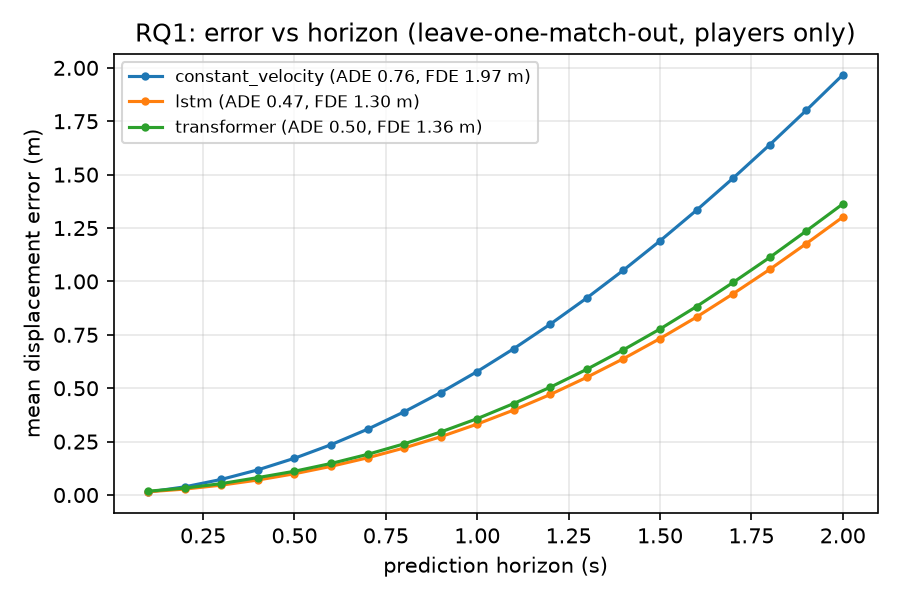
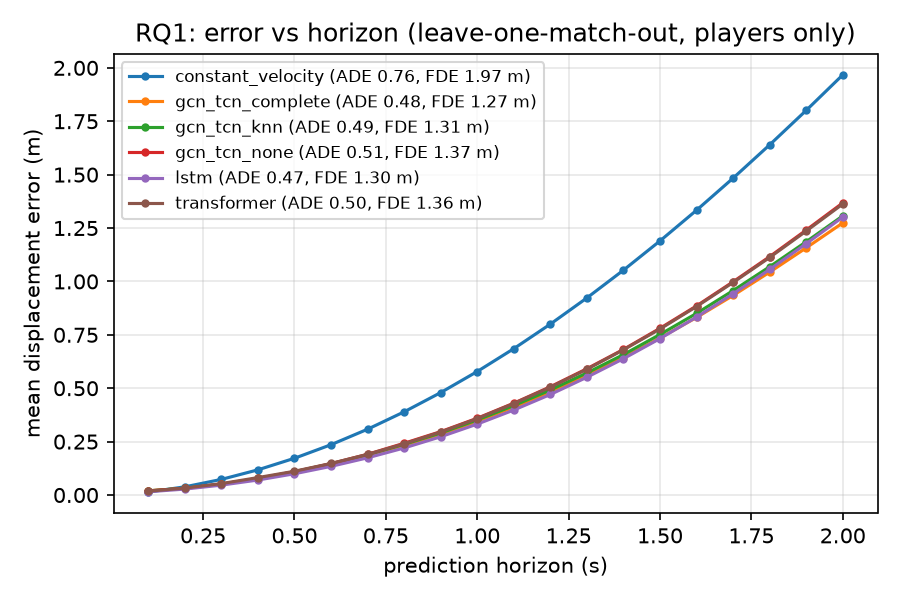
Add GCN-TCN with none / kNN / complete player graphs
- graphs.py: per-time-step adjacency over the 23 nodes (none, complete, kNN)
- models/gcn_tcn.py: 4 blocks of dilated temporal conv + PyG DenseGCNConv,
  ball as an input node, team one-hot features. Own features use a separate
  root weight; with GCN self-loops the complete graph underfit (0.64/1.60 m)
- train.py feeds the ball node to models with uses_ball = True
- train_baseline.py: --model gcn_tcn --graph none|knn|complete
- Results (ADE/FDE m, mean of held-out matches): none 0.51/1.37,
  kNN 0.49/1.31, complete 0.48/1.27; edges beat no edges in every match

diff --git a/scripts/train_baseline.py b/scripts/train_baseline.py
@@ -1,10 +1,12 @@
-"""Per-player learned baselines (LSTM / Transformer), leave-one-match-out, vs constant velocity.
+"""Learned RQ1 models, leave-one-match-out, vs constant velocity.
 
     python scripts/train_baseline.py --model lstm
     python scripts/train_baseline.py --model transformer
+    python scripts/train_baseline.py --model gcn_tcn --graph complete   # or knn / none
 
-Writes ADE/FDE per match to runs/<model>_lomo.csv and the per-step error curve
-to runs/<model>_horizon.npz (plot with scripts/plot_horizon.py).
+Writes ADE/FDE per match to runs/<name>_lomo.csv and the per-step error curve
+to runs/<name>_horizon.npz (plot with scripts/plot_horizon.py), where <name> is the
+model, plus the graph for gcn_tcn (e.g. gcn_tcn_knn).
 """
 import argparse
 import csv
@@ -15,18 +17,21 @@ import numpy as np
 
 from stfootball.baselines import constant_velocity
 from stfootball.config import DEFAULT
+from stfootball.graphs import GRAPHS
 from stfootball.io.metrica import load_all
 from stfootball.metrics import ade, fde, horizon_error
+from stfootball.models.gcn_tcn import GCNTCN
 from stfootball.models.lstm import PlayerLSTM
 from stfootball.models.transformer import PlayerTransformer
 from stfootball.preprocess import preprocess
 from stfootball.train import TrainConfig, fit, predict
 from stfootball.windows import WindowSet, make_windows
 
-MODELS = {"lstm": PlayerLSTM, "transformer": PlayerTransformer}
+MODELS = {"lstm": PlayerLSTM, "transformer": PlayerTransformer, "gcn_tcn": GCNTCN}
 
 ap = argparse.ArgumentParser()
 ap.add_argument("--model", choices=MODELS, default="lstm")
+ap.add_argument("--graph", choices=GRAPHS, default="complete", help="edges for gcn_tcn")
 ap.add_argument("--data", default="data/metrica/data")
 ap.add_argument("--cache", default="data/windows")
 ap.add_argument("--epochs", type=int, default=TrainConfig.epochs)
@@ -37,6 +42,12 @@ ap.add_argument("--smooth-s", type=float, default=DEFAULT.smooth_window_s,
 ap.add_argument("--out-dir", default="runs")
 args = ap.parse_args()
 cfg = replace(DEFAULT, smooth_window_s=args.smooth_s)
+name = f"{args.model}_{args.graph}" if args.model == "gcn_tcn" else args.model
+
+
+def build(t_out: int):
+    kwargs = {"graph": args.graph} if args.model == "gcn_tcn" else {}
+    return MODELS[args.model](t_out, **kwargs)
 
 
 def load_windows() -> list[WindowSet]:
@@ -59,23 +70,23 @@ t_out = int(cfg.output_s * cfg.target_fps)
 rows, curves = [], {}
 for test in sets:
     print(f"held out {test.match_id}", flush=True)
-    model = fit(MODELS[args.model](t_out), [w for w in sets if w is not test], tc, cfg)
-    for name, pred in (("constant_velocity", constant_velocity(test.X, t_out, cfg.target_fps)),
-                       (args.model, predict(model, test.X, device=args.device))):
-        rows.append((test.match_id, name, len(test.X), ade(pred, test.Y), fde(pred, test.Y)))
-        curves[f"{name}/{test.match_id}"] = horizon_error(pred, test.Y)
+    model = fit(build(t_out), [w for w in sets if w is not test], tc, cfg)
+    for label, pred in (("constant_velocity", constant_velocity(test.X, t_out, cfg.target_fps)),
+                        (name, predict(model, test.X, device=args.device))):
+        rows.append((test.match_id, label, len(test.X), ade(pred, test.Y), fde(pred, test.Y)))
+        curves[f"{label}/{test.match_id}"] = horizon_error(pred, test.Y)
 
 print(f"\n{'match':12s} {'model':18s} {'windows':>8s} {'ADE(m)':>7s} {'FDE(m)':>7s}")
 for r in rows:
     print(f"{r[0]:12s} {r[1]:18s} {r[2]:8d} {r[3]:7.2f} {r[4]:7.2f}")
-for name in ("constant_velocity", args.model):
-    sel = [r for r in rows if r[1] == name]
-    print(f"{'mean':12s} {name:18s} {sum(r[2] for r in sel):8d} "
+for m in ("constant_velocity", name):
+    sel = [r for r in rows if r[1] == m]
+    print(f"{'mean':12s} {m:18s} {sum(r[2] for r in sel):8d} "
           f"{np.mean([r[3] for r in sel]):7.2f} {np.mean([r[4] for r in sel]):7.2f}")
 
 out = Path(args.out_dir)
 out.mkdir(parents=True, exist_ok=True)
-with open(out / f"{args.model}_lomo.csv", "w", newline="") as f:
+with open(out / f"{name}_lomo.csv", "w", newline="") as f:
     csv.writer(f).writerows([("match", "model", "windows", "ade", "fde"), *rows])
-np.savez(out / f"{args.model}_horizon.npz", **curves)
-print(f"saved {out}/{args.model}_lomo.csv, {out}/{args.model}_horizon.npz")
+np.savez(out / f"{name}_horizon.npz", **curves)
+print(f"saved {out}/{name}_lomo.csv, {out}/{name}_horizon.npz")

diff --git a/src/stfootball/models/gcn_tcn.py b/src/stfootball/models/gcn_tcn.py
@@ -1,0 +1,60 @@
+"""GCN + TCN spatio-temporal graph model for RQ1.
+
+Each block mixes information over time (dilated temporal convolution, per node)
+and then over the player graph (dense GCN from PyTorch Geometric, per time step).
+A node's own features go through a separate root weight instead of a GCN self-loop:
+with self-loops a complete graph averages each player with 22 others at weight 1/23
+and the model underfits (train ADE 0.60 vs 0.47 without edges). With graph="none"
+only the root path is left, which gives the same network without interactions,
+i.e. the ablation for the graph.
+"""
+import torch
+from torch import nn
+from torch_geometric.nn import DenseGCNConv
+
+from ..graphs import adjacency
+from .lstm import POS_SCALE, node_features
+
+N_NODES = 23
+TEAM = torch.tensor([0] * 11 + [1] * 11 + [2])  # home, away, ball (windows.py node order)
+
+
+class STBlock(nn.Module):
+    def __init__(self, ch: int, dilation: int, dropout: float):
+        super().__init__()
+        self.temporal = nn.Conv1d(ch, ch, 3, padding=dilation, dilation=dilation)
+        self.neighbours = DenseGCNConv(ch, ch)
+        self.root = nn.Linear(ch, ch, bias=False)
+        self.norm = nn.LayerNorm(ch)
+        self.drop = nn.Dropout(dropout)
+
+    def forward(self, h: torch.Tensor, adj: torch.Tensor) -> torch.Tensor:
+        B, T, N, C = h.shape
+        t = self.temporal(h.permute(0, 2, 3, 1).reshape(B * N, C, T))
+        t = torch.relu(t).view(B, N, C, T).permute(0, 3, 1, 2)
+        s = self.neighbours(t.reshape(B * T, N, C), adj.reshape(B * T, N, N), add_loop=False).view(B, T, N, C)
+        s = s + self.root(t)
+        return self.norm(h + self.drop(torch.relu(s)))
+
+
+class GCNTCN(nn.Module):
+    uses_ball = True  # the ball node is part of the graph; outputs cover the 22 players
+
+    def __init__(self, t_out: int, graph: str = "complete", hidden: int = 64,
+                 dilations=(1, 2, 4, 8), k: int = 4, dropout: float = 0.1):
+        super().__init__()
+        self.t_out, self.graph, self.k = t_out, graph, k
+        self.embed = nn.Linear(6 + 3, hidden)
+        self.blocks = nn.ModuleList(STBlock(hidden, d, dropout) for d in dilations)
+        self.head = nn.Sequential(nn.Linear(hidden, hidden), nn.ReLU(), nn.Linear(hidden, t_out * 2))
+
+    def forward(self, X: torch.Tensor) -> torch.Tensor:
+        """(B, T_in, 23, 4) -> (B, T_out, 22, 2) future player positions in metres."""
+        B, T, N, _ = X.shape
+        team = nn.functional.one_hot(TEAM.to(X.device), 3).float().expand(B, T, N, 3)
+        h = self.embed(torch.cat([node_features(X), team], -1))
+        adj = adjacency(X[..., :2], self.graph, self.k)
+        for block in self.blocks:
+            h = block(h, adj)
+        offset = self.head(h[:, -1, :22]).view(B, 22, self.t_out, 2).permute(0, 2, 1, 3) * POS_SCALE
+        return X[:, -1:, :22, :2] + offset

diff --git a/src/stfootball/train.py b/src/stfootball/train.py
@@ -1,4 +1,5 @@
-"""Training loop shared by the learned RQ1 models (players only, ball is input-free here).
+"""Training loop shared by the learned RQ1 models. Loss and outputs cover the 22 players;
+models with `uses_ball = True` (graph models) also get the ball node as input.
 
 Validation windows are the last `val_frac` of each training match, separated from the
 training part by a gap so overlapping windows never sit on both sides of the split.
@@ -16,6 +17,10 @@ from .config import DEFAULT, Config
 from .windows import WindowSet
 
 PLAYERS = slice(0, 22)
+
+
+def input_nodes(model: torch.nn.Module) -> slice:
+    return slice(None) if getattr(model, "uses_ball", False) else PLAYERS
 
 
 @dataclass(frozen=True)
@@ -68,7 +73,8 @@ def _flip(X: torch.Tensor, Y: torch.Tensor):
 def predict(model: torch.nn.Module, X: np.ndarray, batch_size: int = 256, device: str = "auto") -> np.ndarray:
     dev = pick_device(device)
     model.to(dev).eval()
-    out = [model(torch.as_tensor(X[i:i + batch_size, :, PLAYERS], dtype=torch.float32, device=dev)).cpu().numpy()
+    nodes = input_nodes(model)
+    out = [model(torch.as_tensor(X[i:i + batch_size, :, nodes], dtype=torch.float32, device=dev)).cpu().numpy()
            for i in range(0, len(X), batch_size)]
     return np.concatenate(out)
 
@@ -79,7 +85,7 @@ def fit(model: torch.nn.Module, train_sets: list[WindowSet], tc: TrainConfig = T
     rng = np.random.default_rng(tc.seed)
     dev = pick_device(tc.device)
     (Xtr, Ytr), (Xva, Yva) = split_train_val(train_sets, tc.val_frac, cfg)
-    Xtr = torch.as_tensor(Xtr[:, :, PLAYERS], dtype=torch.float32)
+    Xtr = torch.as_tensor(Xtr[:, :, input_nodes(model)], dtype=torch.float32)
     Ytr = torch.as_tensor(Ytr[:, :, PLAYERS], dtype=torch.float32)
     model.to(dev)
     opt = torch.optim.AdamW(model.parameters(), lr=tc.lr, weight_decay=tc.weight_decay)

diff --git a/tests/test_models.py b/tests/test_models.py
@@ -63,3 +63,27 @@ def test_horizon_error_matches_ade_and_fde():
     curve = horizon_error(pred, w.Y)
     assert curve.shape == (T_OUT,)
     assert np.isclose(curve.mean(), ade(pred, w.Y)) and np.isclose(curve[-1], fde(pred, w.Y))
+
+
+def test_adjacency_kinds():
+    from stfootball.graphs import adjacency
+    pos = torch.randn(2, 5, 23, 2) * 20
+    assert adjacency(pos, "none").sum() == 0
+    full = adjacency(pos, "complete")
+    assert full.shape == (2, 5, 23, 23) and full[0, 0].sum() == 23 * 22
+    knn = adjacency(pos, "knn", k=4)
+    assert torch.equal(knn, knn.transpose(-1, -2))
+    assert (knn.diagonal(dim1=-2, dim2=-1) == 0).all() and (knn.sum(-1) >= 4).all()
+
+
+def test_gcn_tcn_shape_and_interaction_ablation():
+    from stfootball.models.gcn_tcn import GCNTCN
+    X = torch.as_tensor(linear_windows(2).X, dtype=torch.float32)  # all 23 nodes
+    X2 = X.clone(); X2[:, :, 15, :2] += 5.0                         # move one away player
+    for graph, shared in (("none", False), ("complete", True)):
+        torch.manual_seed(0)
+        model = GCNTCN(T_OUT, graph=graph, hidden=16, dilations=(1, 2)).eval()
+        out, out2 = model(X), model(X2)
+        assert out.shape == (2, T_OUT, 22, 2)
+        changed = not torch.allclose(out[:, :, 0], out2[:, :, 0])  # did home player 0 notice?
+        assert changed == shared, graph

diff --git a/src/stfootball/graphs.py b/src/stfootball/graphs.py
@@ -1,0 +1,30 @@
+"""Player graphs for the ST-GNN (RQ1).
+
+Adjacency is built per time step from node positions, so edges follow the play
+inside a window. Nodes are the 23 of `windows.py` (11 home, 11 away, ball).
+Self-loops are left out; the GCN layer adds them.
+"""
+import torch
+
+GRAPHS = ("none", "complete", "knn")
+
+
+def adjacency(pos: torch.Tensor, kind: str, k: int = 4) -> torch.Tensor:
+    """(..., N, 2) positions -> (..., N, N) 0/1 adjacency without self-loops.
+
+    none      no edges: every node is processed alone (same model, interactions ablated)
+    complete  every pair of nodes
+    knn       each node to its k nearest nodes, symmetrised
+    """
+    N = pos.shape[-2]
+    eye = torch.eye(N, dtype=torch.bool, device=pos.device)
+    if kind == "none":
+        return torch.zeros(*pos.shape[:-1], N, device=pos.device)
+    if kind == "complete":
+        return (~eye).float().expand(*pos.shape[:-1], N).clone()
+    if kind == "knn":
+        d = torch.cdist(pos, pos).masked_fill(eye, float("inf"))
+        idx = d.topk(k, dim=-1, largest=False).indices
+        A = torch.zeros_like(d).scatter_(-1, idx, 1.0)
+        return torch.maximum(A, A.transpose(-1, -2))
+    raise ValueError(f"unknown graph {kind!r}, expected one of {GRAPHS}")

diff --git a/README.md b/README.md
@@ -32,23 +32,34 @@ python scripts/build_db.py                # -> data/football.db (~170k frames, 3
 python scripts/run_baselines.py           # RQ1 baselines
 python scripts/train_baseline.py --model lstm         # per-player LSTM, leave-one-match-out (~25 min on Apple MPS)
 python scripts/train_baseline.py --model transformer  # per-player Transformer (~45 min)
+python scripts/train_baseline.py --model gcn_tcn --graph complete  # GCN-TCN; also knn / none (~25 min each)
 python scripts/plot_horizon.py                        # error vs horizon figure from runs/
 pytest                                    # synthetic-data tests, no download needed
 ```
 
 ## Results so far (RQ1, 2 s horizon, players only, leave-one-match-out)
 
-| Held-out match | Windows | Stationary | Constant velocity | Per-player LSTM | Per-player Transformer |
-|---|---|---|---|---|---|
-| metrica_1 | 2,733 | 2.26 / 4.22 | 0.72 / 1.86 | 0.43 / 1.19 | 0.47 / 1.28 |
-| metrica_2 | 2,483 | 2.29 / 4.28 | 0.75 / 1.93 | 0.45 / 1.24 | 0.48 / 1.30 |
-| metrica_3 | 3,059 | 2.33 / 4.36 | 0.82 / 2.11 | 0.55 / 1.48 | 0.57 / 1.51 |
-| **mean** | 8,275 | 2.29 / 4.29 | 0.76 / 1.97 | **0.47 / 1.30** | 0.50 / 1.36 |
+ADE / FDE in metres per held-out match.
 
-ADE / FDE in metres. Both learned baselines see each player alone (`python scripts/train_baseline.py --model lstm|transformer`,
-up to 80 epochs with early stopping, one seed), so they are the reference the graph models must beat.
-Swapping recurrence for attention does not help on 4 s histories; the gain has to come from player interactions.
-Smoothing is off: a centred 0.5 s moving average leaked future frames into the inputs and made the LSTM look better than it is (0.36 / 1.07 m).
+| Model | Interactions | metrica_1 | metrica_2 | metrica_3 | **mean** |
+|---|---|---|---|---|---|
+| Stationary | - | 2.26 / 4.22 | 2.29 / 4.28 | 2.33 / 4.36 | 2.29 / 4.29 |
+| Constant velocity | - | 0.72 / 1.86 | 0.75 / 1.93 | 0.82 / 2.11 | 0.76 / 1.97 |
+| Per-player LSTM | no | 0.43 / 1.19 | 0.45 / 1.24 | 0.55 / 1.48 | **0.47** / 1.30 |
+| Per-player Transformer | no | 0.47 / 1.28 | 0.48 / 1.30 | 0.57 / 1.51 | 0.50 / 1.36 |
+| GCN-TCN, no edges | no | 0.46 / 1.26 | 0.48 / 1.32 | 0.58 / 1.52 | 0.51 / 1.37 |
+| GCN-TCN, kNN (k = 4) | yes | 0.44 / 1.21 | 0.46 / 1.24 | 0.56 / 1.47 | 0.49 / 1.31 |
+| GCN-TCN, complete | yes | 0.43 / 1.17 | 0.45 / 1.22 | 0.55 / 1.44 | 0.48 / **1.27** |
+
+Windows per match: 2,733 / 2,483 / 3,059. Learned models: `python scripts/train_baseline.py --model lstm|transformer|gcn_tcn [--graph none|knn|complete]`,
+up to 80 epochs with early stopping, one seed.
+
+- **Interactions help.** The GCN-TCN with edges beats the same network without edges in every held-out match
+  (complete: ADE -0.03 m, FDE -0.10 m). This is the RQ1 comparison.
+- Against the per-player LSTM, the complete-graph GCN-TCN ties on ADE and is better on FDE in every match,
+  with a quarter of the parameters (74k vs 287k).
+- Swapping recurrence for attention (LSTM -> Transformer) does not help on 4 s histories.
+- Smoothing is off: a centred 0.5 s moving average leaked future frames into the inputs and made the LSTM look better than it is (0.36 / 1.07 m).
 
 ![error vs horizon](docs/figures/fig3_horizon_error.png)
 
@@ -67,7 +78,8 @@ src/stfootball/
   db.py           SQLite schema, loader, event-window queries
   windows.py      fixed-size 23-node sliding windows
   baselines.py    stationary, constant velocity
-  models/         per-player LSTM and Transformer baselines
+  graphs.py       per-step adjacency: none / complete / kNN
+  models/         per-player LSTM and Transformer baselines, GCN-TCN
   train.py        training loop, train/val split with overlap gap
   metrics.py      ADE, FDE, error per horizon step
 scripts/          download, build_db, run_baselines, train_baseline, plot_horizon
@@ -80,7 +92,8 @@ docs/             data notes and figures
 - [x] Data loaders, cleaning, SQLite store, baselines
 - [x] Per-player LSTM baseline
 - [x] Transformer per-player baseline
-- [ ] Graph construction (complete / kNN / pass-availability edges) + GCN-TCN in PyTorch Geometric
+- [x] Graph construction (complete / kNN) + GCN-TCN in PyTorch Geometric
+- [ ] Pass-availability edges, larger GCN-TCN, multiple seeds
 - [ ] Pitch control (Spearman 2018) and location value
 - [ ] Virtual tactical simulation and Space Creation Value
 - [ ] Extension: graph Neural ODE for continuous-time trajectories

diff --git a/CLAUDE.md b/CLAUDE.md
@@ -8,7 +8,7 @@ counterfactual "virtual tactical simulation" (RQ2). Reply to the owner in Korean
 - `pip install -e '.[ml]'` (torch + PyG) then `bash scripts/download_metrica.sh` (data goes to `data/`, gitignored)
 - `python scripts/build_db.py` builds `data/football.db` (SQLite)
 - `python scripts/run_baselines.py` prints ADE/FDE per match
-- `python scripts/train_baseline.py --model lstm|transformer` trains per-player baselines leave-one-match-out (windows cached in `data/windows/`); `python scripts/plot_horizon.py` plots error vs horizon
+- `python scripts/train_baseline.py --model lstm|transformer|gcn_tcn [--graph none|knn|complete]` trains RQ1 models leave-one-match-out (windows cached in `data/windows/`); `python scripts/plot_horizon.py` plots error vs horizon
 - `pytest` runs synthetic-data tests (no download needed); run before every commit
 
 ## Conventions
@@ -23,6 +23,8 @@ counterfactual "virtual tactical simulation" (RQ2). Reply to the owner in Korean
 - Keep personal documents (application, schedule) out of this public repo.
 
 ## Next steps
-Baselines to beat (ADE/FDE): constant velocity 0.76/1.97 m, per-player LSTM 0.47/1.30 m, Transformer 0.50/1.36 m.
-1. Graph construction (complete / kNN / pass-availability) + GCN-TCN
+Current ADE/FDE: constant velocity 0.76/1.97 m, per-player LSTM 0.47/1.30 m, Transformer 0.50/1.36 m,
+GCN-TCN none/kNN/complete 0.51/1.37, 0.49/1.31, 0.48/1.27 m. GCN uses a separate root weight; with
+GCN self-loops the complete graph underfit (0.64/1.60 m).
+1. Pass-availability edges; scale GCN-TCN up; repeat with several seeds
 2. Pitch control (Spearman 2018) + location value grid -> Space Creation Value
